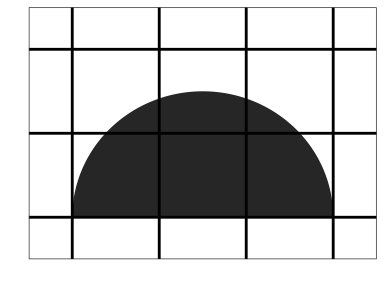
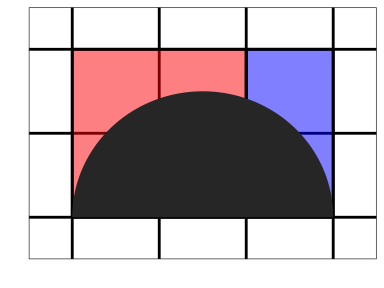
add different colored rectangles to divide the semicircle

Changed region(s): [[0.1875, 0.1562, 0.875, 0.7812]]

diff --git a/README.md b/README.md
@@ -19,6 +19,8 @@ plt <-
   ) +
   scale_x_continuous(name = '', labels = NULL) +
   scale_y_continuous(name = '', labels = NULL) +
+  geom_vline(xintercept = 0:3, size = 1, color = 'black') +
+  geom_hline(yintercept = 0:3, size = 1, color = 'black') +
   theme_bw() +
   theme(panel.grid.major = element_blank(),
         panel.grid.minor = element_blank(),
@@ -28,6 +30,28 @@ plt
 ```
 
 ![](README_files/figure-markdown_github/canvas-1.png)
+
+Add some red and blue rectangles
+
+``` r
+plt <-
+  plt +
+  geom_rect(mapping = aes(xmin = 0, xmax = 2, 
+                          ymin = 0, ymax = 2),
+            alpha   = 0.5,
+            fill    = 'red',
+            color   = 'black', 
+            size    = 1) +
+  geom_rect(mapping = aes(xmin = 2, xmax = 3, 
+                          ymin = 0, ymax = 2),
+            alpha   = 0.5,
+            fill    = 'blue',
+            color   = 'black', 
+            size    = 1)
+plt
+```
+
+![](README_files/figure-markdown_github/redblue-1.png)
 
 Next, we need a semi-circle.
 
@@ -40,9 +64,7 @@ crcl <-
   )
 plt <-
   plt +
-  geom_polygon(aes(x = x, y = y), crcl) +
-  geom_vline(xintercept = 0:3, size = 1, color = 'black') +
-  geom_hline(yintercept = 0:3, size = 1, color = 'black')
+  geom_polygon(aes(x = x, y = y), crcl) 
 plt
 ```
 
@@ -53,12 +75,24 @@ Overlay a transparent rectangle.
 ``` r
 plt <-
   plt +
-  geom_rect(mapping = aes(xmin = 0, xmax = 2, 
+    geom_rect(mapping = aes(xmin = 0, xmax = 2, 
                           ymin = 0, ymax = 2),
             alpha   = 0.5,
-            fill    = 'white',
+            fill    = 'blue',
+            color   = 'black', 
+            size    = 1) +
+  geom_rect(mapping = aes(xmin = 2, xmax = 3, 
+                          ymin = 0, ymax = 2),
+            alpha   = 0.5,
+            fill    = 'red',
             color   = 'black', 
             size    = 1)
+#  geom_rect(mapping = aes(xmin = 0, xmax = 2, 
+#                          ymin = 0, ymax = 2),
+#            alpha   = 0.5,
+#            fill    = 'white',
+#            color   = 'black', 
+#            size    = 1)
 plt
 ```
 
